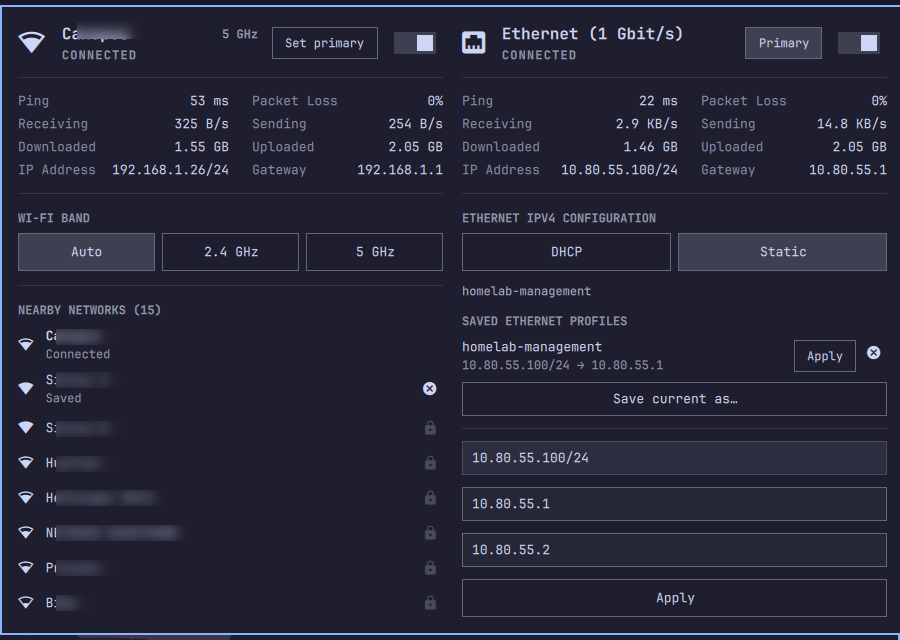
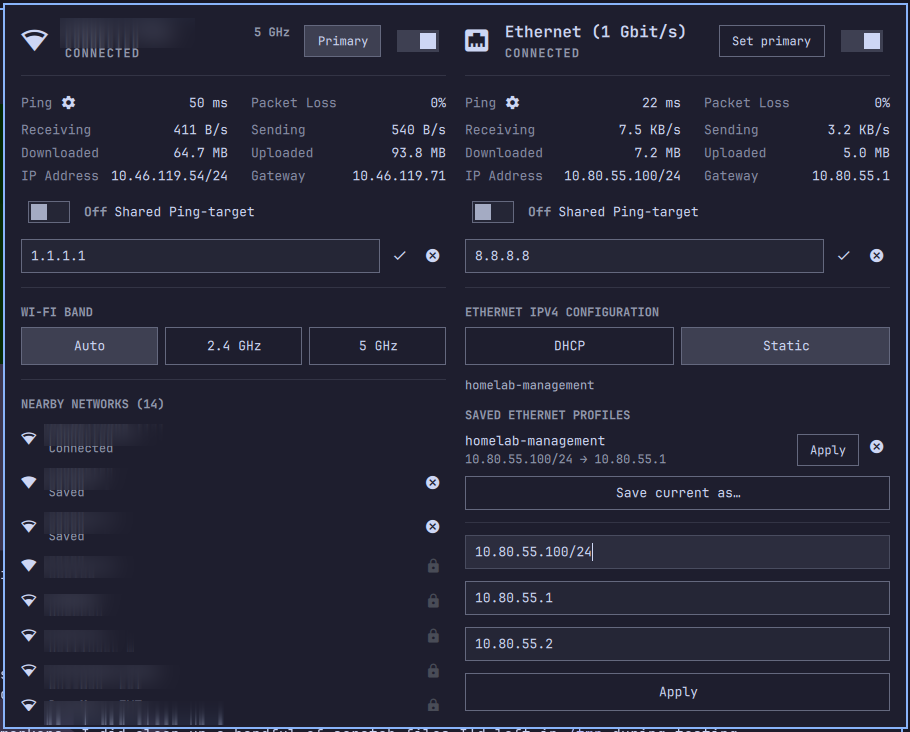
Update preview.png to show the ping-target editor
Replaces the static-IPv4-only screenshot with one that also shows both
sections' ping-target editors open (gear, Shared Ping-target toggle).
SSIDs in the nearby-networks list and the connected network's name are
blurred; everything else in the capture is unedited.

diff --git a/README.md b/README.md
@@ -3,9 +3,9 @@
 An Omarchy (Quickshell) plugin for managing Wi-Fi and Ethernet
 independently, at the same time.
 
-**Static IPv4 expanded**
+**Static IPv4 and ping-target editors expanded**
 
-![SimulNetDevice popup showing both Wi-Fi and Ethernet sections live side by side, with the Ethernet Static IPv4 panel expanded to show saved profiles and the manual address/gateway/DNS entry fields](preview.png)
+![SimulNetDevice popup showing both Wi-Fi and Ethernet sections live side by side, with the Ethernet Static IPv4 panel expanded to show saved profiles and the manual address/gateway/DNS entry fields, and both sections' ping-target editors open showing the Shared Ping-target toggle](preview.png)
 
 ## Why this exists
 
